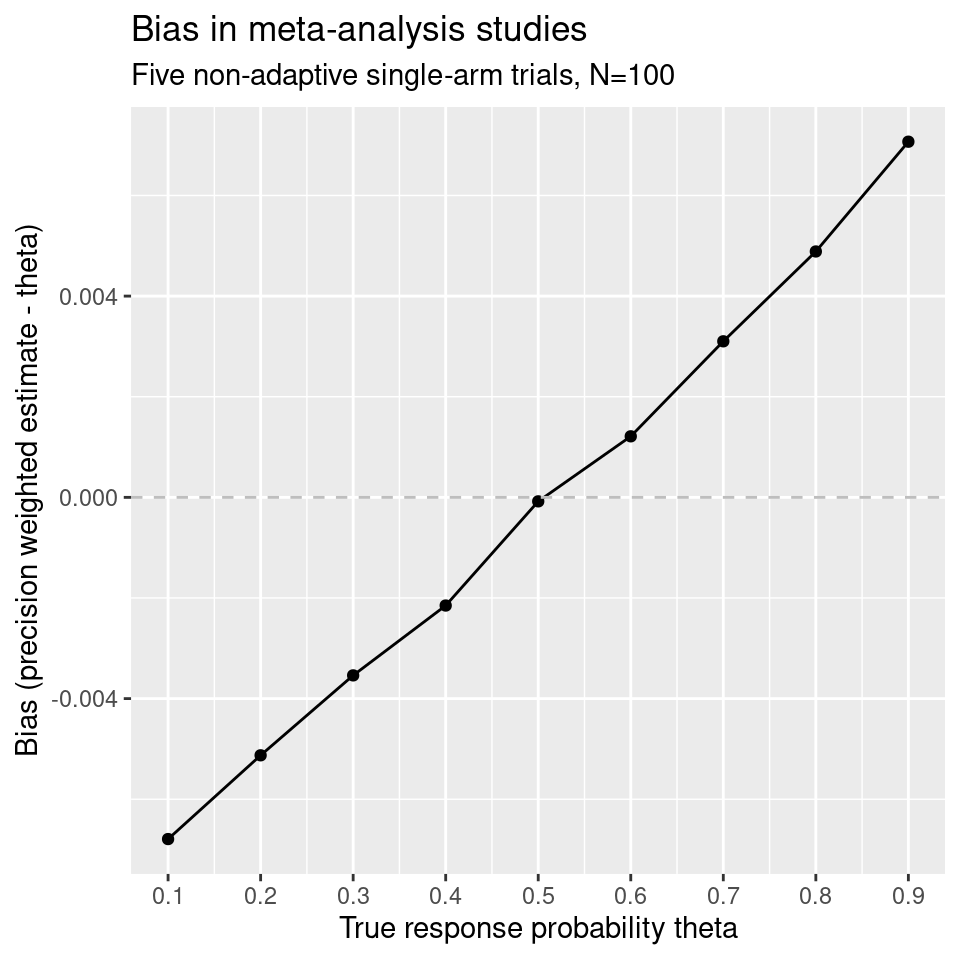
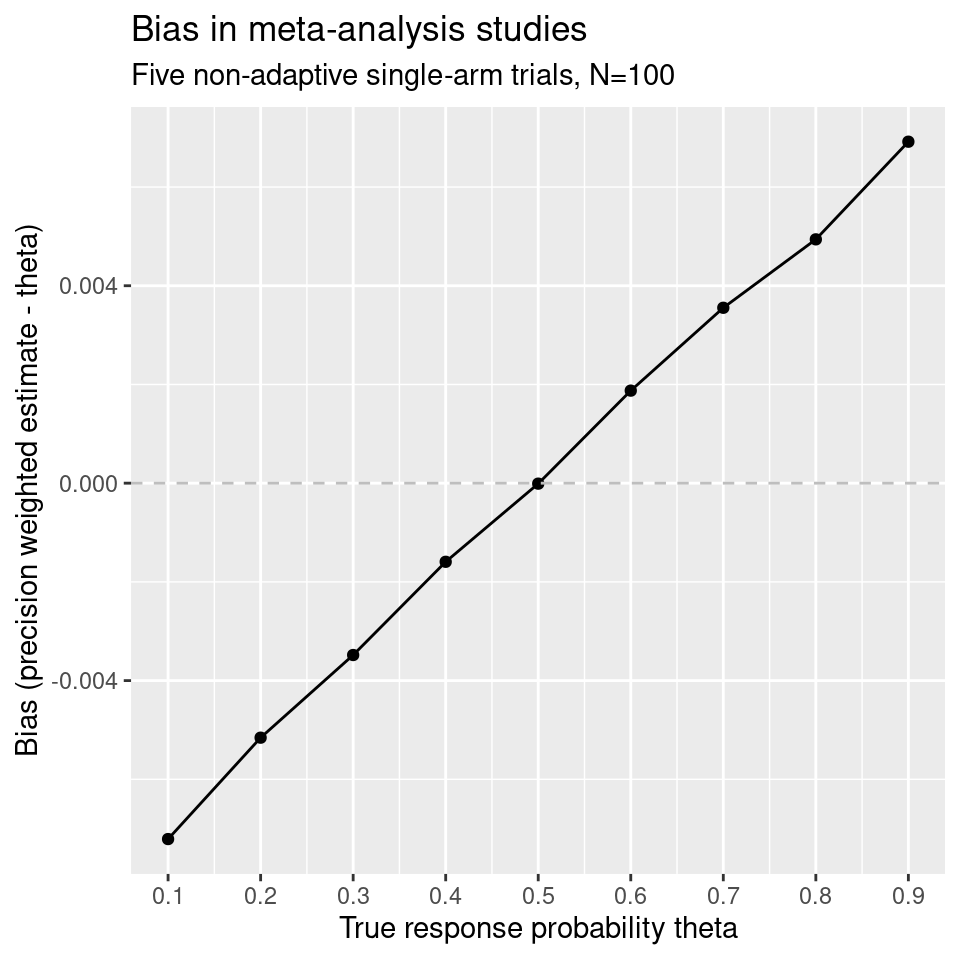
Deploying to gh-pages from @ martinlaw/pwb@a401e5941147951065c6995f7477279ac45069ab 🚀

diff --git a/articles/conditional_bias.html b/articles/conditional_bias.html
@@ -1,0 +1,130 @@
+<!DOCTYPE html>
+<!-- Generated by pkgdown: do not edit by hand --><html lang="en">
+<head>
+<meta http-equiv="Content-Type" content="text/html; charset=UTF-8">
+<meta charset="utf-8">
+<meta http-equiv="X-UA-Compatible" content="IE=edge">
+<meta name="viewport" content="width=device-width, initial-scale=1, shrink-to-fit=no">
+<meta name="description" content="pwb">
+<title>conditional_bias • pwb</title>
+<script src="../deps/jquery-3.6.0/jquery-3.6.0.min.js"></script><meta name="viewport" content="width=device-width, initial-scale=1, shrink-to-fit=no">
+<link href="../deps/bootstrap-5.2.2/bootstrap.min.css" rel="stylesheet">
+<script src="../deps/bootstrap-5.2.2/bootstrap.bundle.min.js"></script><!-- Font Awesome icons --><link rel="stylesheet" href="https://cdnjs.cloudflare.com/ajax/libs/font-awesome/5.12.1/css/all.min.css" integrity="sha256-mmgLkCYLUQbXn0B1SRqzHar6dCnv9oZFPEC1g1cwlkk=" crossorigin="anonymous">
+<link rel="stylesheet" href="https://cdnjs.cloudflare.com/ajax/libs/font-awesome/5.12.1/css/v4-shims.min.css" integrity="sha256-wZjR52fzng1pJHwx4aV2AO3yyTOXrcDW7jBpJtTwVxw=" crossorigin="anonymous">
+<!-- bootstrap-toc --><script src="https://cdn.jsdelivr.net/gh/afeld/bootstrap-toc@v1.0.1/dist/bootstrap-toc.min.js" integrity="sha256-4veVQbu7//Lk5TSmc7YV48MxtMy98e26cf5MrgZYnwo=" crossorigin="anonymous"></script><!-- headroom.js --><script src="https://cdnjs.cloudflare.com/ajax/libs/headroom/0.11.0/headroom.min.js" integrity="sha256-AsUX4SJE1+yuDu5+mAVzJbuYNPHj/WroHuZ8Ir/CkE0=" crossorigin="anonymous"></script><script src="https://cdnjs.cloudflare.com/ajax/libs/headroom/0.11.0/jQuery.headroom.min.js" integrity="sha256-ZX/yNShbjqsohH1k95liqY9Gd8uOiE1S4vZc+9KQ1K4=" crossorigin="anonymous"></script><!-- clipboard.js --><script src="https://cdnjs.cloudflare.com/ajax/libs/clipboard.js/2.0.6/clipboard.min.js" integrity="sha256-inc5kl9MA1hkeYUt+EC3BhlIgyp/2jDIyBLS6k3UxPI=" crossorigin="anonymous"></script><!-- search --><script src="https://cdnjs.cloudflare.com/ajax/libs/fuse.js/6.4.6/fuse.js" integrity="sha512-zv6Ywkjyktsohkbp9bb45V6tEMoWhzFzXis+LrMehmJZZSys19Yxf1dopHx7WzIKxr5tK2dVcYmaCk2uqdjF4A==" crossorigin="anonymous"></script><script src="https://cdnjs.cloudflare.com/ajax/libs/autocomplete.js/0.38.0/autocomplete.jquery.min.js" integrity="sha512-GU9ayf+66Xx2TmpxqJpliWbT5PiGYxpaG8rfnBEk1LL8l1KGkRShhngwdXK1UgqhAzWpZHSiYPc09/NwDQIGyg==" crossorigin="anonymous"></script><script src="https://cdnjs.cloudflare.com/ajax/libs/mark.js/8.11.1/mark.min.js" integrity="sha512-5CYOlHXGh6QpOFA/TeTylKLWfB3ftPsde7AnmhuitiTX4K5SqCLBeKro6sPS8ilsz1Q4NRx3v8Ko2IBiszzdww==" crossorigin="anonymous"></script><!-- pkgdown --><script src="../pkgdown.js"></script><meta property="og:title" content="conditional_bias">
+<meta property="og:description" content="pwb">
+<!-- mathjax --><script src="https://cdnjs.cloudflare.com/ajax/libs/mathjax/2.7.5/MathJax.js" integrity="sha256-nvJJv9wWKEm88qvoQl9ekL2J+k/RWIsaSScxxlsrv8k=" crossorigin="anonymous"></script><script src="https://cdnjs.cloudflare.com/ajax/libs/mathjax/2.7.5/config/TeX-AMS-MML_HTMLorMML.js" integrity="sha256-84DKXVJXs0/F8OTMzX4UR909+jtl4G7SPypPavF+GfA=" crossorigin="anonymous"></script><!--[if lt IE 9]>
+<script src="https://oss.maxcdn.com/html5shiv/3.7.3/html5shiv.min.js"></script>
+<script src="https://oss.maxcdn.com/respond/1.4.2/respond.min.js"></script>
+<![endif]-->
+</head>
+<body>
+    <a href="#main" class="visually-hidden-focusable">Skip to contents</a>
+    
+
+    <nav class="navbar fixed-top navbar-light navbar-expand-lg bg-light"><div class="container">
+    
+    <a class="navbar-brand me-2" href="../index.html">pwb</a>
+
+    <small class="nav-text text-muted me-auto" data-bs-toggle="tooltip" data-bs-placement="bottom" title="">0.0.0.9000</small>
+
+    
+    <button class="navbar-toggler" type="button" data-bs-toggle="collapse" data-bs-target="#navbar" aria-controls="navbar" aria-expanded="false" aria-label="Toggle navigation">
+      <span class="navbar-toggler-icon"></span>
+    </button>
+
+    <div id="navbar" class="collapse navbar-collapse ms-3">
+      <ul class="navbar-nav me-auto">
+<li class="nav-item">
+  <a class="nav-link" href="../reference/index.html">Reference</a>
+</li>
+<li class="active nav-item dropdown">
+  <a href="#" class="nav-link dropdown-toggle" data-bs-toggle="dropdown" role="button" aria-expanded="false" aria-haspopup="true" id="dropdown-articles">Articles</a>
+  <div class="dropdown-menu" aria-labelledby="dropdown-articles">
+    <a class="dropdown-item" href="../articles/GS.html">GS</a>
+    <a class="dropdown-item" href="../articles/MA_GS.html">Meta Analysis: Group Sequential</a>
+    <a class="dropdown-item" href="../articles/MA_add_trial.html">MA: Bias when adding trial</a>
+    <a class="dropdown-item" href="../articles/MA_general.html">Meta-analysis: general</a>
+    <a class="dropdown-item" href="../articles/MA_simon.html">Meta-analysis: Simon design</a>
+    <a class="dropdown-item" href="../articles/Non-adaptive_designs.html">Non-adaptive designs</a>
+    <a class="dropdown-item" href="../articles/RPW.html">RPW</a>
+    <a class="dropdown-item" href="../articles/conditional_bias.html">conditional_bias</a>
+    <a class="dropdown-item" href="../articles/simon.html">Simon design: simulation study</a>
+    <a class="dropdown-item" href="../articles/two_arm_two_stage_example.html">Two-arm two-stage: example</a>
+    <a class="dropdown-item" href="../articles/two_arm_two_stage_full.html">two_arm_two_stage_full</a>
+  </div>
+</li>
+      </ul>
+<form class="form-inline my-2 my-lg-0" role="search">
+        <input type="search" class="form-control me-sm-2" aria-label="Toggle navigation" name="search-input" data-search-index="../search.json" id="search-input" placeholder="Search for" autocomplete="off">
+</form>
+
+      <ul class="navbar-nav"></ul>
+</div>
+
+    
+  </div>
+</nav><div class="container template-article">
+
+
+
+
+<div class="row">
+  <main id="main" class="col-md-9"><div class="page-header">
+      <img src="" class="logo" alt=""><h1>conditional_bias</h1>
+            
+      
+      
+      <div class="d-none name"><code>conditional_bias.Rmd</code></div>
+    </div>
+
+    
+    
+<div class="sourceCode" id="cb1"><pre class="downlit sourceCode r">
+<code class="sourceCode R"><span><span class="kw"><a href="https://rdrr.io/r/base/library.html" class="external-link">library</a></span><span class="op">(</span><span class="va"><a href="https://martinlaw.github.io/pwb/">pwb</a></span><span class="op">)</span></span></code></pre></div>
+<div class="sourceCode" id="cb2"><pre class="downlit sourceCode r">
+<code class="sourceCode R"><span><span class="va">nsims</span> <span class="op">&lt;-</span> <span class="fl">100000</span></span>
+<span><span class="va">N</span> <span class="op">&lt;-</span> <span class="fl">1000</span></span>
+<span><span class="va">dat</span> <span class="op">&lt;-</span> <span class="fu"><a href="https://rdrr.io/r/base/matrix.html" class="external-link">matrix</a></span><span class="op">(</span>data<span class="op">=</span><span class="fu"><a href="https://rdrr.io/r/stats/Normal.html" class="external-link">rnorm</a></span><span class="op">(</span><span class="va">N</span><span class="op">*</span><span class="va">nsims</span>, <span class="fl">0</span><span class="op">)</span>, nrow<span class="op">=</span><span class="va">N</span>, ncol<span class="op">=</span><span class="va">nsims</span><span class="op">)</span></span>
+<span></span>
+<span><span class="va">theta.hat</span> <span class="op">&lt;-</span>    <span class="fu"><a href="https://rdrr.io/r/base/apply.html" class="external-link">apply</a></span><span class="op">(</span><span class="va">dat</span>, <span class="fl">2</span>, <span class="va">mean</span><span class="op">)</span> <span class="co"># theta hat for all obsns</span></span>
+<span><span class="va">theta.hat.s1</span> <span class="op">&lt;-</span> <span class="fu"><a href="https://rdrr.io/r/base/apply.html" class="external-link">apply</a></span><span class="op">(</span><span class="va">dat</span><span class="op">[</span><span class="fl">1</span><span class="op">:</span><span class="op">(</span><span class="va">N</span><span class="op">/</span><span class="fl">2</span><span class="op">)</span>, <span class="op">]</span>, <span class="fl">2</span>, <span class="va">mean</span><span class="op">)</span> <span class="co"># theta hat for S1 data</span></span>
+<span><span class="va">theta.hat.s2</span> <span class="op">&lt;-</span> <span class="fu"><a href="https://rdrr.io/r/base/apply.html" class="external-link">apply</a></span><span class="op">(</span><span class="va">dat</span><span class="op">[</span><span class="op">(</span><span class="op">(</span><span class="va">N</span><span class="op">/</span><span class="fl">2</span><span class="op">)</span><span class="op">+</span><span class="fl">1</span><span class="op">)</span><span class="op">:</span><span class="va">N</span>, <span class="op">]</span>, <span class="fl">2</span>, <span class="va">mean</span><span class="op">)</span> <span class="co"># theta hat for S2 data</span></span>
+<span></span>
+<span><span class="va">early.stopped</span> <span class="op">&lt;-</span> <span class="va">theta.hat.s1</span> <span class="op">&lt;</span> <span class="fl">0</span> <span class="co"># index of early-stopped trials</span></span>
+<span></span>
+<span><span class="va">theta.hat.s1.early.stop</span> <span class="op">&lt;-</span> <span class="va">theta.hat.s1</span><span class="op">[</span><span class="va">early.stopped</span><span class="op">]</span> <span class="co"># theta hat, S1 data, early stopped</span></span>
+<span><span class="fu"><a href="https://rdrr.io/r/base/mean.html" class="external-link">mean</a></span><span class="op">(</span><span class="va">theta.hat.s1.early.stop</span><span class="op">)</span></span>
+<span><span class="co">#&gt; [1] -0.0357289</span></span>
+<span><span class="va">theta.hat.s1.continue</span> <span class="op">&lt;-</span> <span class="va">theta.hat.s1</span><span class="op">[</span><span class="op">!</span><span class="va">early.stopped</span><span class="op">]</span> <span class="co"># theta hat, S1 data, continued</span></span>
+<span><span class="fu"><a href="https://rdrr.io/r/base/mean.html" class="external-link">mean</a></span><span class="op">(</span><span class="va">theta.hat.s1.continue</span><span class="op">)</span></span>
+<span><span class="co">#&gt; [1] 0.03578531</span></span>
+<span><span class="va">theta.hat.s2.continue</span> <span class="op">&lt;-</span> <span class="va">theta.hat.s2</span><span class="op">[</span><span class="op">!</span><span class="va">early.stopped</span><span class="op">]</span> <span class="co"># theta hat, S2 data, continued</span></span>
+<span><span class="fu"><a href="https://rdrr.io/r/base/mean.html" class="external-link">mean</a></span><span class="op">(</span><span class="va">theta.hat.s2.continue</span><span class="op">)</span></span>
+<span><span class="co">#&gt; [1] -0.0002334469</span></span>
+<span><span class="fu"><a href="https://rdrr.io/r/base/mean.html" class="external-link">mean</a></span><span class="op">(</span><span class="va">theta.hat</span><span class="op">[</span><span class="op">!</span><span class="va">early.stopped</span><span class="op">]</span><span class="op">)</span></span>
+<span><span class="co">#&gt; [1] 0.01777593</span></span></code></pre></div>
+  </main>
+</div>
+
+
+
+    <footer><div class="pkgdown-footer-left">
+  <p></p>
+<p>Developed by Martin Law, David Robertson.</p>
+</div>
+
+<div class="pkgdown-footer-right">
+  <p></p>
+<p>Site built with <a href="https://pkgdown.r-lib.org/" class="external-link">pkgdown</a> 2.0.7.</p>
+</div>
+
+    </footer>
+</div>
+
+  
+
+  
+
+  </body>
+</html>

diff --git a/articles/GS.html b/articles/GS.html
@@ -48,6 +48,7 @@
     <a class="dropdown-item" href="../articles/MA_simon.html">Meta-analysis: Simon design</a>
     <a class="dropdown-item" href="../articles/Non-adaptive_designs.html">Non-adaptive designs</a>
     <a class="dropdown-item" href="../articles/RPW.html">RPW</a>
+    <a class="dropdown-item" href="../articles/conditional_bias.html">conditional_bias</a>
     <a class="dropdown-item" href="../articles/simon.html">Simon design: simulation study</a>
     <a class="dropdown-item" href="../articles/two_arm_two_stage_example.html">Two-arm two-stage: example</a>
     <a class="dropdown-item" href="../articles/two_arm_two_stage_full.html">two_arm_two_stage_full</a>
@@ -95,10 +96,10 @@ futility:</p>
 <span>                     nsims<span class="op">=</span><span class="va">nsims</span><span class="op">)</span></span>
 <span>  <span class="va">single.GS</span><span class="op">$</span><span class="va">ests</span><span class="op">[</span>, <span class="fl">1</span><span class="op">:</span><span class="fl">5</span><span class="op">]</span></span>
 <span><span class="co">#&gt;                          nsims    bias mean.SE emp.SE theta</span></span>
-<span><span class="co">#&gt; Stopped early            39377 -0.0452  0.0455 0.0273   0.5</span></span>
-<span><span class="co">#&gt; Complete                 60623  0.0246  0.0421 0.0300   0.5</span></span>
-<span><span class="co">#&gt; All                     100000 -0.0028  0.0435 0.0447   0.5</span></span>
-<span><span class="co">#&gt; All (precision-weghted) 100000 -0.0002  0.0433     NA   0.5</span></span>
+<span><span class="co">#&gt; Stopped early            39311 -0.0452  0.0455 0.0276   0.5</span></span>
+<span><span class="co">#&gt; Complete                 60689  0.0248  0.0421 0.0300   0.5</span></span>
+<span><span class="co">#&gt; All                     100000 -0.0027  0.0435 0.0449   0.5</span></span>
+<span><span class="co">#&gt; All (precision-weghted) 100000  0.0000  0.0433     NA   0.5</span></span>
 <span>  <span class="fu"><a href="https://rdrr.io/r/base/Round.html" class="external-link">round</a></span><span class="op">(</span><span class="va">single.GS</span><span class="op">$</span><span class="va">mc.error</span>, <span class="fl">5</span><span class="op">)</span></span>
 <span><span class="co">#&gt; [1] 0.00014 0.00010</span></span></code></pre></div>
 <p>How does bias compare when the true response probability is varied?

diff --git a/articles/MA_add_trial.html b/articles/MA_add_trial.html
@@ -48,6 +48,7 @@
     <a class="dropdown-item" href="../articles/MA_simon.html">Meta-analysis: Simon design</a>
     <a class="dropdown-item" href="../articles/Non-adaptive_designs.html">Non-adaptive designs</a>
     <a class="dropdown-item" href="../articles/RPW.html">RPW</a>
+    <a class="dropdown-item" href="../articles/conditional_bias.html">conditional_bias</a>
     <a class="dropdown-item" href="../articles/simon.html">Simon design: simulation study</a>
     <a class="dropdown-item" href="../articles/two_arm_two_stage_example.html">Two-arm two-stage: example</a>
     <a class="dropdown-item" href="../articles/two_arm_two_stage_full.html">two_arm_two_stage_full</a>
@@ -298,7 +299,7 @@ the non-adaptive studies is 0.45.</p>
 <span><span class="va">tab</span> <span class="op">&lt;-</span> <span class="fu">xtable</span><span class="fu">::</span><span class="fu"><a href="https://rdrr.io/pkg/xtable/man/xtable.html" class="external-link">xtable</a></span><span class="op">(</span>x<span class="op">=</span><span class="va">results</span><span class="op">*</span><span class="fl">1e5</span>, digits<span class="op">=</span><span class="fl">1</span>, align<span class="op">=</span><span class="st">"rrrrrrrr"</span>, caption<span class="op">=</span><span class="st">"Summary of results *1e5"</span><span class="op">)</span></span>
 <span><span class="fu"><a href="https://rdrr.io/r/base/print.html" class="external-link">print</a></span><span class="op">(</span><span class="va">tab</span>, type<span class="op">=</span><span class="st">"html"</span><span class="op">)</span></span></code></pre></div>
 <!-- html table generated in R 4.2.2 by xtable 1.8-4 package -->
-<!-- Thu Feb  2 18:11:58 2023 -->
+<!-- Mon Feb  6 17:41:14 2023 -->
 <table border="1" class="table">
 <caption align="bottom">
 Summary of results *1e5

diff --git a/articles/index.html b/articles/index.html
@@ -31,6 +31,7 @@
     <a class="dropdown-item" href="../articles/MA_simon.html">Meta-analysis: Simon design</a>
     <a class="dropdown-item" href="../articles/Non-adaptive_designs.html">Non-adaptive designs</a>
     <a class="dropdown-item" href="../articles/RPW.html">RPW</a>
+    <a class="dropdown-item" href="../articles/conditional_bias.html">conditional_bias</a>
     <a class="dropdown-item" href="../articles/simon.html">Simon design: simulation study</a>
     <a class="dropdown-item" href="../articles/two_arm_two_stage_example.html">Two-arm two-stage: example</a>
     <a class="dropdown-item" href="../articles/two_arm_two_stage_full.html">two_arm_two_stage_full</a>
@@ -66,6 +67,8 @@
         </dd><dt><a href="Non-adaptive_designs.html">Non-adaptive designs</a></dt>
         <dd>
         </dd><dt><a href="RPW.html">RPW</a></dt>
+        <dd>
+        </dd><dt><a href="conditional_bias.html">conditional_bias</a></dt>
         <dd>
         </dd><dt><a href="simon.html">Simon design: simulation study</a></dt>
         <dd>

diff --git a/404.html b/404.html
@@ -46,6 +46,7 @@
     <a class="dropdown-item" href="https://martinlaw.github.io/pwb/articles/MA_simon.html">Meta-analysis: Simon design</a>
     <a class="dropdown-item" href="https://martinlaw.github.io/pwb/articles/Non-adaptive_designs.html">Non-adaptive designs</a>
     <a class="dropdown-item" href="https://martinlaw.github.io/pwb/articles/RPW.html">RPW</a>
+    <a class="dropdown-item" href="https://martinlaw.github.io/pwb/articles/conditional_bias.html">conditional_bias</a>
     <a class="dropdown-item" href="https://martinlaw.github.io/pwb/articles/simon.html">Simon design: simulation study</a>
     <a class="dropdown-item" href="https://martinlaw.github.io/pwb/articles/two_arm_two_stage_example.html">Two-arm two-stage: example</a>
     <a class="dropdown-item" href="https://martinlaw.github.io/pwb/articles/two_arm_two_stage_full.html">two_arm_two_stage_full</a>

diff --git a/articles/MA_GS.html b/articles/MA_GS.html
@@ -48,6 +48,7 @@
     <a class="dropdown-item" href="../articles/MA_simon.html">Meta-analysis: Simon design</a>
     <a class="dropdown-item" href="../articles/Non-adaptive_designs.html">Non-adaptive designs</a>
     <a class="dropdown-item" href="../articles/RPW.html">RPW</a>
+    <a class="dropdown-item" href="../articles/conditional_bias.html">conditional_bias</a>
     <a class="dropdown-item" href="../articles/simon.html">Simon design: simulation study</a>
     <a class="dropdown-item" href="../articles/two_arm_two_stage_example.html">Two-arm two-stage: example</a>
     <a class="dropdown-item" href="../articles/two_arm_two_stage_full.html">two_arm_two_stage_full</a>

diff --git a/articles/MA_general.html b/articles/MA_general.html
@@ -48,6 +48,7 @@
     <a class="dropdown-item" href="../articles/MA_simon.html">Meta-analysis: Simon design</a>
     <a class="dropdown-item" href="../articles/Non-adaptive_designs.html">Non-adaptive designs</a>
     <a class="dropdown-item" href="../articles/RPW.html">RPW</a>
+    <a class="dropdown-item" href="../articles/conditional_bias.html">conditional_bias</a>
     <a class="dropdown-item" href="../articles/simon.html">Simon design: simulation study</a>
     <a class="dropdown-item" href="../articles/two_arm_two_stage_example.html">Two-arm two-stage: example</a>
     <a class="dropdown-item" href="../articles/two_arm_two_stage_full.html">two_arm_two_stage_full</a>

diff --git a/articles/MA_simon.html b/articles/MA_simon.html
@@ -48,6 +48,7 @@
     <a class="dropdown-item" href="../articles/MA_simon.html">Meta-analysis: Simon design</a>
     <a class="dropdown-item" href="../articles/Non-adaptive_designs.html">Non-adaptive designs</a>
     <a class="dropdown-item" href="../articles/RPW.html">RPW</a>
+    <a class="dropdown-item" href="../articles/conditional_bias.html">conditional_bias</a>
     <a class="dropdown-item" href="../articles/simon.html">Simon design: simulation study</a>
     <a class="dropdown-item" href="../articles/two_arm_two_stage_example.html">Two-arm two-stage: example</a>
     <a class="dropdown-item" href="../articles/two_arm_two_stage_full.html">two_arm_two_stage_full</a>

diff --git a/articles/Non-adaptive_designs.html b/articles/Non-adaptive_designs.html
@@ -48,6 +48,7 @@
     <a class="dropdown-item" href="../articles/MA_simon.html">Meta-analysis: Simon design</a>
     <a class="dropdown-item" href="../articles/Non-adaptive_designs.html">Non-adaptive designs</a>
     <a class="dropdown-item" href="../articles/RPW.html">RPW</a>
+    <a class="dropdown-item" href="../articles/conditional_bias.html">conditional_bias</a>
     <a class="dropdown-item" href="../articles/simon.html">Simon design: simulation study</a>
     <a class="dropdown-item" href="../articles/two_arm_two_stage_example.html">Two-arm two-stage: example</a>
     <a class="dropdown-item" href="../articles/two_arm_two_stage_full.html">two_arm_two_stage_full</a>

diff --git a/articles/RPW.html b/articles/RPW.html
@@ -48,6 +48,7 @@
     <a class="dropdown-item" href="../articles/MA_simon.html">Meta-analysis: Simon design</a>
     <a class="dropdown-item" href="../articles/Non-adaptive_designs.html">Non-adaptive designs</a>
     <a class="dropdown-item" href="../articles/RPW.html">RPW</a>
+    <a class="dropdown-item" href="../articles/conditional_bias.html">conditional_bias</a>
     <a class="dropdown-item" href="../articles/simon.html">Simon design: simulation study</a>
     <a class="dropdown-item" href="../articles/two_arm_two_stage_example.html">Two-arm two-stage: example</a>
     <a class="dropdown-item" href="../articles/two_arm_two_stage_full.html">two_arm_two_stage_full</a>

diff --git a/articles/simon.html b/articles/simon.html
@@ -48,6 +48,7 @@
     <a class="dropdown-item" href="../articles/MA_simon.html">Meta-analysis: Simon design</a>
     <a class="dropdown-item" href="../articles/Non-adaptive_designs.html">Non-adaptive designs</a>
     <a class="dropdown-item" href="../articles/RPW.html">RPW</a>
+    <a class="dropdown-item" href="../articles/conditional_bias.html">conditional_bias</a>
     <a class="dropdown-item" href="../articles/simon.html">Simon design: simulation study</a>
     <a class="dropdown-item" href="../articles/two_arm_two_stage_example.html">Two-arm two-stage: example</a>
     <a class="dropdown-item" href="../articles/two_arm_two_stage_full.html">two_arm_two_stage_full</a>

diff --git a/articles/two_arm_two_stage_example.html b/articles/two_arm_two_stage_example.html
@@ -48,6 +48,7 @@
     <a class="dropdown-item" href="../articles/MA_simon.html">Meta-analysis: Simon design</a>
     <a class="dropdown-item" href="../articles/Non-adaptive_designs.html">Non-adaptive designs</a>
     <a class="dropdown-item" href="../articles/RPW.html">RPW</a>
+    <a class="dropdown-item" href="../articles/conditional_bias.html">conditional_bias</a>
     <a class="dropdown-item" href="../articles/simon.html">Simon design: simulation study</a>
     <a class="dropdown-item" href="../articles/two_arm_two_stage_example.html">Two-arm two-stage: example</a>
     <a class="dropdown-item" href="../articles/two_arm_two_stage_full.html">two_arm_two_stage_full</a>
